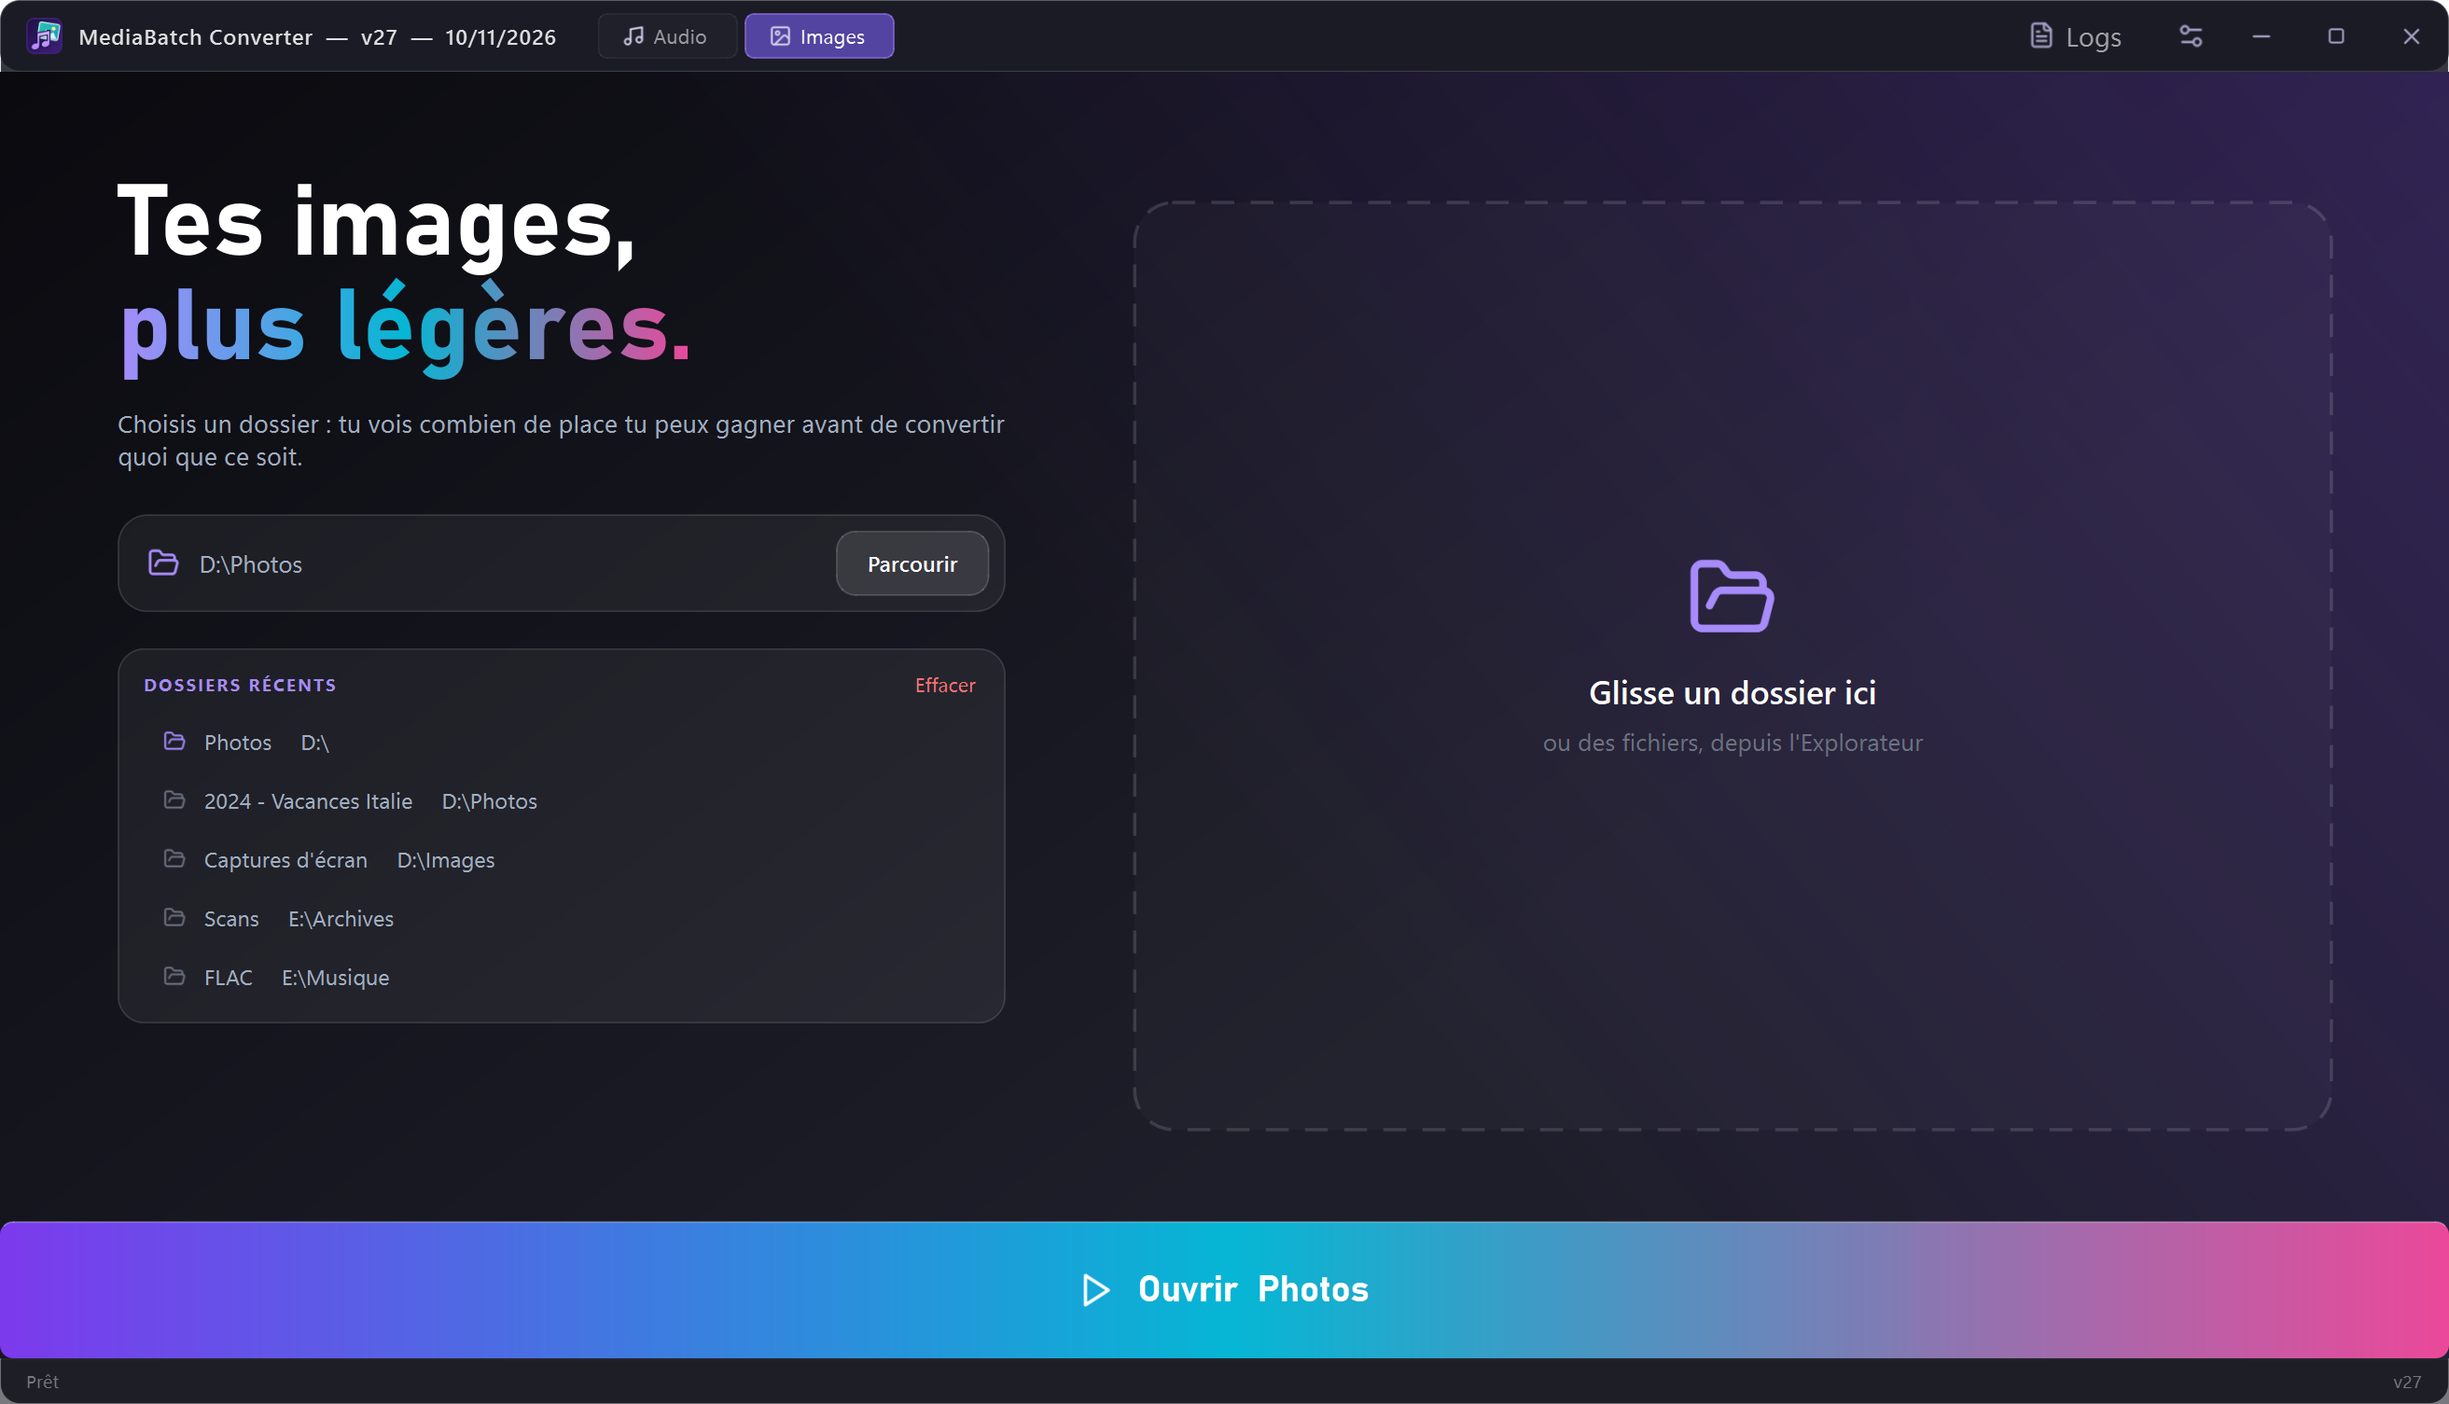
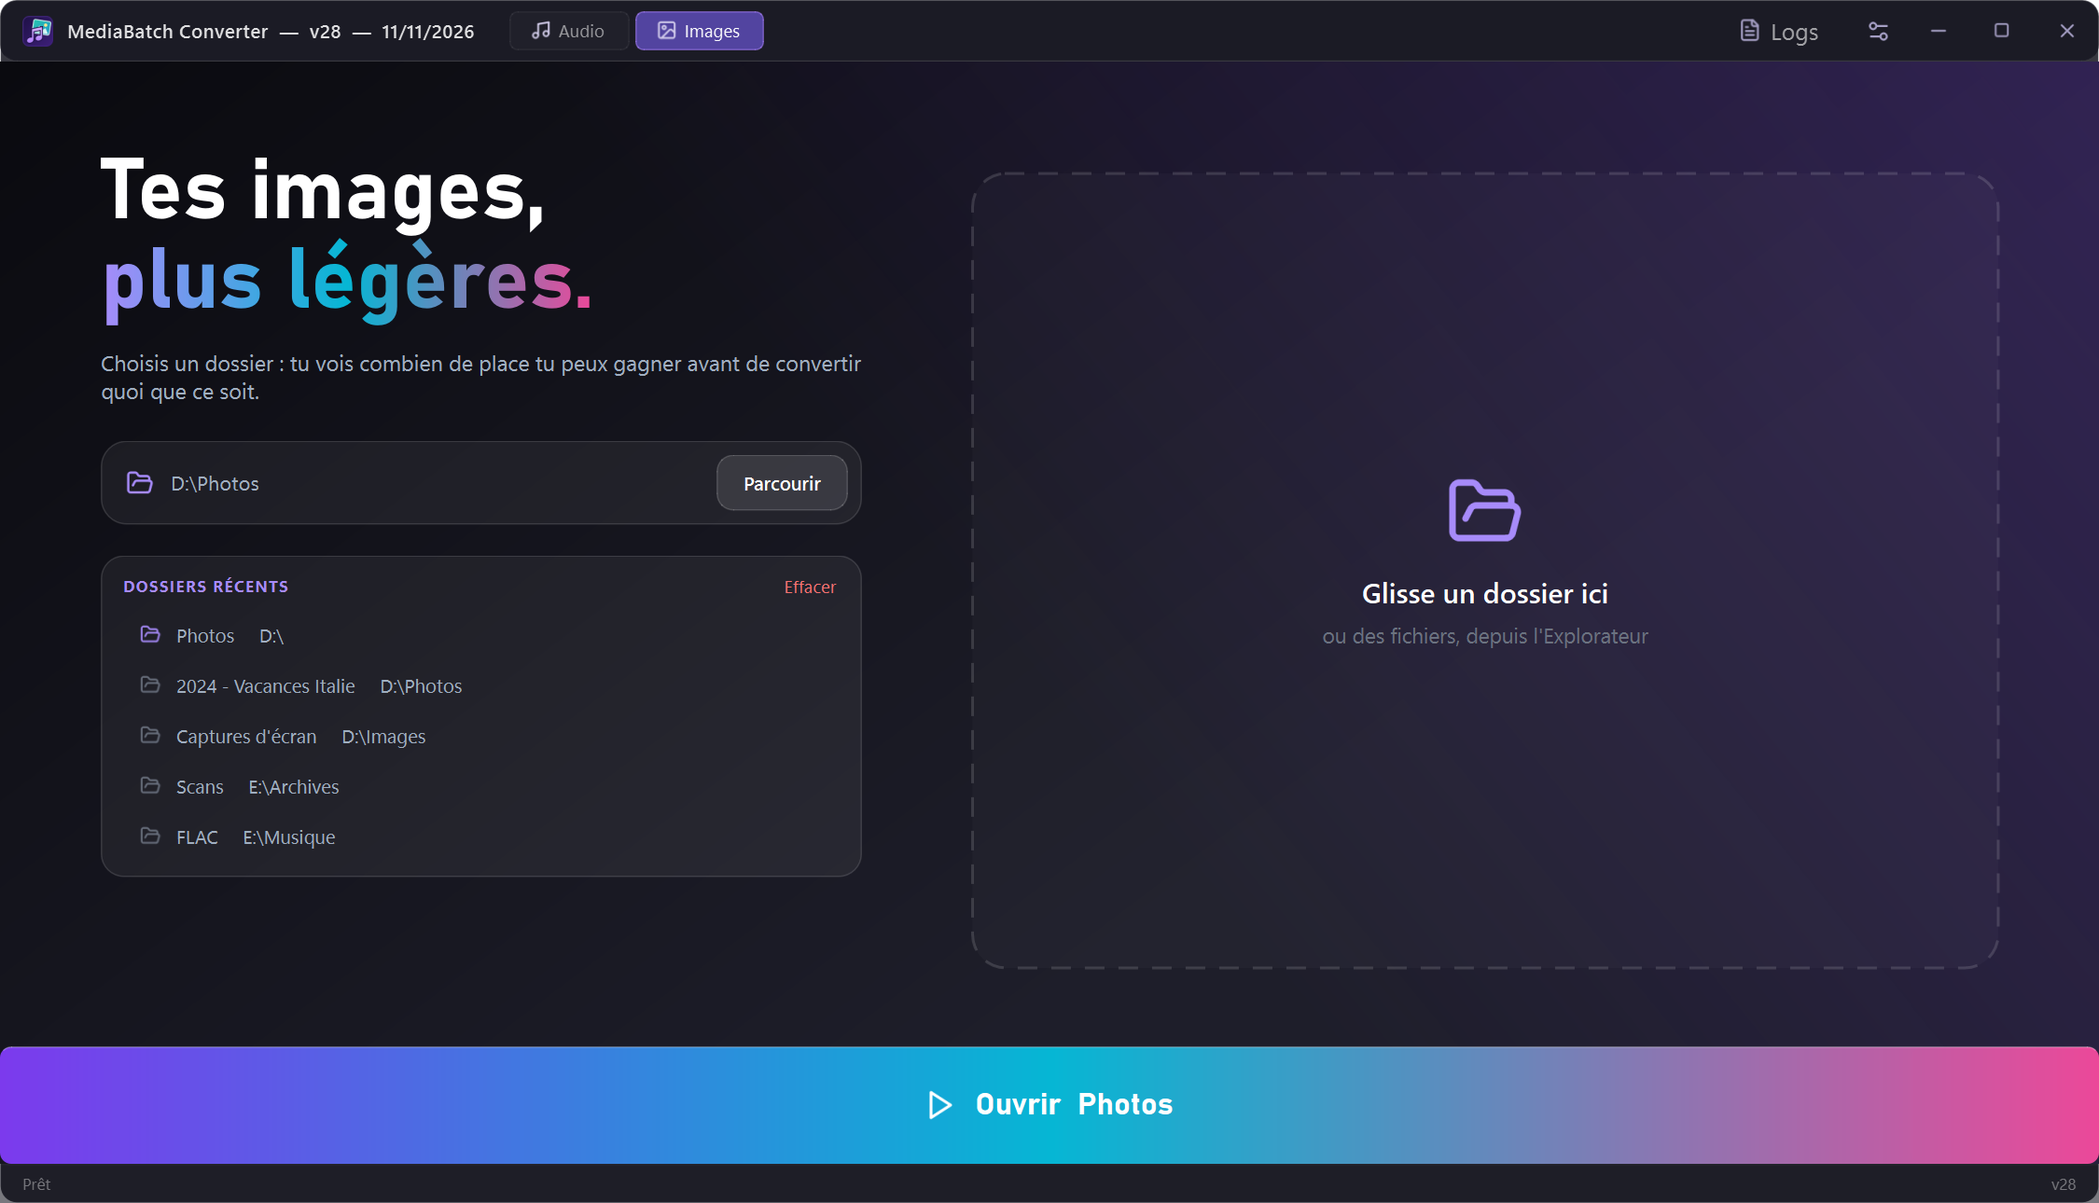
v28: select folders with >= 30 % estimated gain, inline analysis status
- New "≥ 30 %" button next to the select-all box: ticks every folder whose
  estimated gain reaches 30 % and unticks the rest
- The estimate result line sits centred on the selection row when it fits,
  and falls back to its own line otherwise; it now reads "Analyse terminée"
- Starting the estimate from the main button dismisses the suggestion toast
- Selection-size estimate label no longer squeezes the image options

diff --git a/ui/main_window.py b/ui/main_window.py
@@ -110,6 +110,9 @@ class _FileTable(QTableWidget):
 
 # ── Conflict dialog ───────────────────────────────────────────────────────────
 
+GAIN_SELECT_THRESHOLD = 30      # % de gain pour le bouton « ≥ 30 % »
+
+
 class _ConflictDialog(QDialog):
     def __init__(self, conflicts: List[FileInfo], out_ext: str, parent=None):
         super().__init__(parent)
@@ -513,12 +516,28 @@ class MainWindow(QMainWindow):
         tool_row.addWidget(self._btn_select)
         self._sel_count, self._sel_total = 0, 0
         self._update_select_button(0, 0)
+
+        # Mode Images : cocher les dossiers où l'estimation promet ≥ 30 % de gain
+        self._btn_select_gain = QPushButton(f" ≥ {GAIN_SELECT_THRESHOLD} %")
+        self._btn_select_gain.setObjectName("btn_tool")
+        self._btn_select_gain.setFixedHeight(28)
+        self._btn_select_gain.clicked.connect(self._select_by_gain)
+        tool_row.addWidget(self._btn_select_gain)
         tool_row.addSpacing(10)
 
         self._lbl_count = QLabel("Aucun fichier — glissez un dossier ici")
         self._lbl_count.setObjectName("label_count")
         tool_row.addWidget(self._lbl_count)
-        tool_row.addStretch()
+        tool_row.addStretch(1)
+        # Emplacement de la ligne d'activité (mode Images) quand elle tient ici,
+        # centrée entre le compteur et la légende ; sinon elle reste sous la ligne
+        self._act_slot = QHBoxLayout()
+        self._act_slot.setSpacing(12)
+        tool_row.addLayout(self._act_slot)
+        tool_row.addStretch(1)
+        self._legend_slot = QHBoxLayout()
+        tool_row.addLayout(self._legend_slot)
+        self._tool_row = tool_row
         lay.addLayout(tool_row)
 
         # Table
@@ -565,6 +584,8 @@ class MainWindow(QMainWindow):
         self._image_panel = ImageTreePanel(self._settings.get("theme", "dark"))
         self._image_panel.selection_changed.connect(self._update_convert_btn)
         self._image_panel.running_changed.connect(self._on_estimate_running)
+        self._image_panel.activity_changed.connect(self._schedule_place_activity)
+        self._update_gain_button()
 
         self._list_stack = QStackedWidget()
         self._list_stack.addWidget(self._table)
@@ -679,6 +700,9 @@ class MainWindow(QMainWindow):
         io_lay.addStretch()
         self._lbl_estimate = QLabel()
         self._lbl_estimate.setObjectName("label_count")
+        # Prend la place restante sans jamais tasser les options à sa gauche
+        self._lbl_estimate.setSizePolicy(QSizePolicy.Policy.Ignored, QSizePolicy.Policy.Preferred)
+        self._lbl_estimate.setAlignment(Qt.AlignmentFlag.AlignRight | Qt.AlignmentFlag.AlignVCenter)
         self._lbl_estimate.setToolTip(
             "Estimation : une partie de la sélection est convertie en mémoire\n"
             "et le résultat extrapolé à l'ensemble des fichiers."
@@ -1278,7 +1302,66 @@ class MainWindow(QMainWindow):
     def eventFilter(self, obj, event):
         if obj is getattr(self, "_list_panel", None) and event.type() == QEvent.Type.Resize:
             QTimer.singleShot(0, self._align_select_button)
+            self._schedule_place_activity()
         return super().eventFilter(obj, event)
+
+    # ── Ligne d'activité : sur la ligne des cases si elle y tient ──────────────
+
+    def _schedule_place_activity(self):
+        if not hasattr(self, "_act_timer"):
+            self._act_timer = QTimer(self)
+            self._act_timer.setSingleShot(True)
+            self._act_timer.setInterval(0)
+            self._act_timer.timeout.connect(self._place_activity)
+        self._act_timer.start()
+
+    def _place_activity(self):
+        self._update_gain_button()
+        P = self._image_panel
+        act, legend = P.activity, P.legend
+        left = (self._sel_spacer.width() + self._btn_select.width()
+                + (self._btn_select_gain.sizeHint().width() if self._btn_select_gain.isVisible() else 0)
+                + self._lbl_count.sizeHint().width() + 6 * 3 + 10)
+        need = act.sizeHint().width() + 2 * 24
+        if legend.isVisible() or legend.parent() is not P.act_row:
+            need += legend.sizeHint().width() + 12
+        avail = self._list_panel.width() - 24 - left
+        up = self._mode == "image" and need <= avail
+        if up and act.parent() is P.act_row:
+            P.act_layout.removeWidget(act)
+            P.act_layout.removeWidget(legend)
+            self._act_slot.addWidget(act)
+            self._legend_slot.addWidget(legend)
+        elif not up and act.parent() is not P.act_row:
+            self._act_slot.removeWidget(act)
+            self._legend_slot.removeWidget(legend)
+            P.act_layout.insertWidget(0, act, 1)
+            P.act_layout.addWidget(legend)
+        P.act_row.setVisible(act.parent() is P.act_row)
+        # Centrée sur la ligne des cases, alignée à gauche sous celle-ci
+        P._lbl_activity.setAlignment(
+            (Qt.AlignmentFlag.AlignCenter if up else Qt.AlignmentFlag.AlignLeft)
+            | Qt.AlignmentFlag.AlignVCenter)
+        act.setVisible(bool(P._lbl_activity.text()))
+
+    # ── Sélection par gain estimé ─────────────────────────────────────────────
+
+    def _update_gain_button(self):
+        image = self._mode == "image"
+        has = image and self._image_panel.has_estimates()
+        self._btn_select_gain.setVisible(image)
+        self._btn_select_gain.setEnabled(has)
+        self._btn_select_gain.setToolTip(
+            f"Coche les dossiers dont le gain estimé atteint {GAIN_SELECT_THRESHOLD} % ou plus\n"
+            "(les autres sont décochés)." if has else
+            f"Sélectionner les dossiers à {GAIN_SELECT_THRESHOLD} % de gain ou plus :\n"
+            "lancez d'abord « Estimer le gain d'espace ».")
+
+    def _select_by_gain(self):
+        n_dirs, n_files = self._image_panel.select_by_gain(GAIN_SELECT_THRESHOLD)
+        self._set_status(
+            f"{n_dirs} dossier(s) à {GAIN_SELECT_THRESHOLD} % de gain ou plus sélectionné(s) "
+            f"— {n_files} image(s).")
 
     def _toggle_select_all(self):
         # Tout coché → tout décocher ; sinon (rien ou une partie) → tout cocher
@@ -1339,6 +1422,8 @@ class MainWindow(QMainWindow):
         if not image:
             self._toast.dismiss()
         self._img_opts_row.setVisible(image)
+        if hasattr(self, "_btn_select_gain"):
+            self._schedule_place_activity()
         self._lbl_estimate.clear()
         # Pré-écoute et tags n'ont de sens qu'en audio
         self._table.setColumnHidden(COL_PLAY, image)
@@ -1479,6 +1564,7 @@ class MainWindow(QMainWindow):
             self._start_estimate()
 
     def _start_estimate(self):
+        self._toast.dismiss()       # lancée depuis le bouton du haut : la suggestion est caduque
         # Rien d'affiché : on charge d'abord le dossier choisi
         if not self._image_panel.file_count():
             self._scan_directory()
@@ -1489,6 +1575,7 @@ class MainWindow(QMainWindow):
         self._image_panel.start_estimate(fmt, quality, max_side, keep, parallel)
 
     def _on_estimate_running(self, running: bool):
+        self._update_gain_button()
         self._btn_analyze.setText(" Arrêter l'estimation" if running
                                   else " Estimer le gain d'espace")
         self._set_icon(self._btn_analyze, "stop" if running else "estimate", "on_accent",

diff --git a/ui/image_tree.py b/ui/image_tree.py
@@ -171,6 +171,7 @@ class _Spinner(QWidget):
 class ImageTreePanel(QWidget):
     selection_changed = pyqtSignal()
     running_changed   = pyqtSignal(bool)      # estimation en cours / terminée
+    activity_changed  = pyqtSignal()          # texte d'activité / légende modifiés
 
     def __init__(self, theme: str = "dark", parent=None):
         super().__init__(parent)
@@ -186,15 +187,24 @@ class ImageTreePanel(QWidget):
         lay.setContentsMargins(0, 0, 0, 0)
         lay.setSpacing(6)
 
-        # Ligne d'activité : ce qui se passe, ou ce qu'on peut faire
-        act = QHBoxLayout()
+        # Ligne d'activité : ce qui se passe, ou ce qu'on peut faire. La fenêtre
+        # principale peut remonter « activity » et « legend » sur la ligne des
+        # cases à cocher quand la place le permet (voir act_row / act_layout)
+        self.act_row = QWidget()
+        act = QHBoxLayout(self.act_row)
+        self.act_layout = act
         act.setContentsMargins(4, 0, 4, 0)
         act.setSpacing(8)
+        self.activity = QWidget()
+        al = QHBoxLayout(self.activity)
+        al.setContentsMargins(0, 0, 0, 0)
+        al.setSpacing(8)
         self._spinner = _Spinner()
-        act.addWidget(self._spinner)
+        al.addWidget(self._spinner)
         self._lbl_activity = QLabel()
         self._lbl_activity.setObjectName("label_activity")
-        act.addWidget(self._lbl_activity, 1)
+        al.addWidget(self._lbl_activity, 1)
+        act.addWidget(self.activity, 1)
         self._legend = QLabel("&nbsp;&nbsp;".join(
             f'<span style="color:{c}">●</span> {"&lt; 15" if t < 0 else f"≥ {t}"} %'
             for t, c, _lbl in GAIN_LEVELS))
@@ -203,7 +213,8 @@ class ImageTreePanel(QWidget):
         self._legend.setObjectName("label_desc")
         self._legend.hide()
         act.addWidget(self._legend)
-        lay.addLayout(act)
+        self.legend = self._legend
+        lay.addWidget(self.act_row)
 
         self._tree = _Tree()
         self._tree.setColumnCount(len(_HEADERS))
@@ -337,6 +348,37 @@ class ImageTreePanel(QWidget):
         self._tree.viewport().update()
         self.selection_changed.emit()
 
+    def has_estimates(self) -> bool:
+        return any(C_PCT in it.keys for _fi, it in self._file_items())
+
+    def select_by_gain(self, threshold: float) -> Tuple[int, int]:
+        """
+        Coche les dossiers dont le gain estimé atteint *threshold* % (les images
+        isolées à la racine : chacune selon son propre gain), décoche le reste.
+        Retourne (dossiers retenus, images cochées).
+        """
+        n_dirs = n_files = 0
+        self._tree.blockSignals(True)
+        for folder, items in self._groups.values():
+            if folder is not None:
+                ok = folder.keys.get(C_PCT, -1e9) >= threshold
+                cs = Qt.CheckState.Checked if ok else Qt.CheckState.Unchecked
+                folder.setCheckState(C_NAME, cs)
+                for _fi, it in items:
+                    it.setCheckState(C_NAME, cs)
+                if ok:
+                    n_dirs += 1
+                    n_files += len(items)
+            else:
+                for _fi, it in items:
+                    ok = it.keys.get(C_PCT, -1e9) >= threshold
+                    it.setCheckState(C_NAME, Qt.CheckState.Checked if ok else Qt.CheckState.Unchecked)
+                    n_files += ok
+        self._tree.blockSignals(False)
+        self._tree.viewport().update()
+        self.selection_changed.emit()
+        return n_dirs, n_files
+
     def _on_item_changed(self, _item, column):
         if column == C_NAME:
             self._sel_timer.start()
@@ -355,6 +397,7 @@ class ImageTreePanel(QWidget):
         self._tot_src = self._tot_est = self._n_done = 0
         self._t0 = time.monotonic()
         self._legend.show()
+        self.activity_changed.emit()
         self._thread = GroupEstimateThread(groups, out_fmt, quality, max_side, keep, parallel)
         self._thread.group_done.connect(self._on_group_done)
         self._thread.all_done.connect(lambda: self._on_done(stopped=False))
@@ -387,7 +430,7 @@ class ImageTreePanel(QWidget):
         if any(it.text(C_EST) for _fi, it in self._file_items()):
             self._clear_estimates()
             self._spinner.set_state("idle")
-            self._lbl_activity.setText(
+            self._set_activity(
                 "Réglages modifiés : cliquez sur « Estimer le gain d'espace » pour mettre à jour "
                 "les colonnes Estimé / Gain.")
 
@@ -448,9 +491,9 @@ class ImageTreePanel(QWidget):
         gain = self._tot_src - self._tot_est
         pct = (gain / self._tot_src * 100) if self._tot_src else 0
         self._spinner.set_state("stopped" if stopped else "done")
-        verb = "Arrêté après" if stopped else "Terminé en"
+        verb = "Analyse arrêtée après" if stopped else "Analyse terminée en"
         color = gain_color(pct).name()
-        self._lbl_activity.setText(
+        self._set_activity(
             f"{verb} {_duration(time.monotonic() - self._t0)}  —  "
             f"{fmt_bytes(self._tot_src)} → ≈ {fmt_bytes(self._tot_est)}  "
             f"<b style='color:{color}'>gain ≈ {fmt_bytes(gain)} ({pct:.0f} %)</b>  "
@@ -479,17 +522,21 @@ class ImageTreePanel(QWidget):
             names = ", ".join(_short(d) for d in cur[:2])
             more = f" (+{len(cur) - 2})" if len(cur) > 2 else ""
             text += f"   ·   en cours : {names}{more}"
-        self._lbl_activity.setText(text[0].upper() + text[1:])
+        self._set_activity(text[0].upper() + text[1:])
+
+    def _set_activity(self, text: str):
+        self._lbl_activity.setText(text)
+        self.activity_changed.emit()
 
     def _set_hint(self):
         self._spinner.set_state("idle")
         self._legend.hide()
         if self._groups:
-            self._lbl_activity.setText(
+            self._set_activity(
                 "Cliquez sur « Estimer le gain d'espace » pour calculer la taille après "
                 "conversion de chaque dossier et de chaque image — sans rien modifier.")
         else:
-            self._lbl_activity.setText("")
+            self._set_activity("")
 
     # ── Menu contextuel ───────────────────────────────────────────────────────
 

diff --git a/core/config.py b/core/config.py
@@ -2,8 +2,8 @@ import os
 import sys
 
 # !! IMPORTANT : incrémenter APP_VERSION à chaque modification du code !!
-APP_VERSION = 27
-APP_DATE = "10/11/2026"
+APP_VERSION = 28
+APP_DATE = "11/11/2026"
 APP_TITLE = f"MediaBatch Converter  —  v{APP_VERSION}  —  {APP_DATE}"
 
 if getattr(sys, "frozen", False):

diff --git a/README.md b/README.md
@@ -26,7 +26,8 @@ Switch between **🎵 Audio** and **🖼 Images** from the title bar (the app re
 - **Live size estimate** of the selection (`383 MB → ≈ 66 MB, −83 % (± 5 %)`), updated as you move the quality slider.
 - **Folder view**: images are grouped by folder, folders start collapsed (images sitting directly in the chosen folder are listed on their own). Tick a folder to select all its images.
 - **Estimate space savings** (teal button): fills the *Estimated / Gain / Gain % / Margin* columns right in the list, for every folder and every image — gain % colour-coded from *worth it* (green) to *barely useful* (red), images used as test conversions marked *measured*. A live activity line shows what is being done; sort any column at any time; click again to stop.
-- When you pick a folder, a small notification offers to estimate the savings — ignore it and it fades away after a few seconds.
+- **≥ 30 %** button (next to the select-all box): once the estimate is done, ticks every folder whose estimated gain is 30 % or more and unticks the rest — convert only where it's worth it.
+- When you pick a folder, a small notification offers to estimate the savings — ignore it and it fades away after a few seconds (it also disappears as soon as you start the estimate from the main button).
 
 ![Space-savings estimate in the folder view](docs/screenshot-estimate.png)
 
